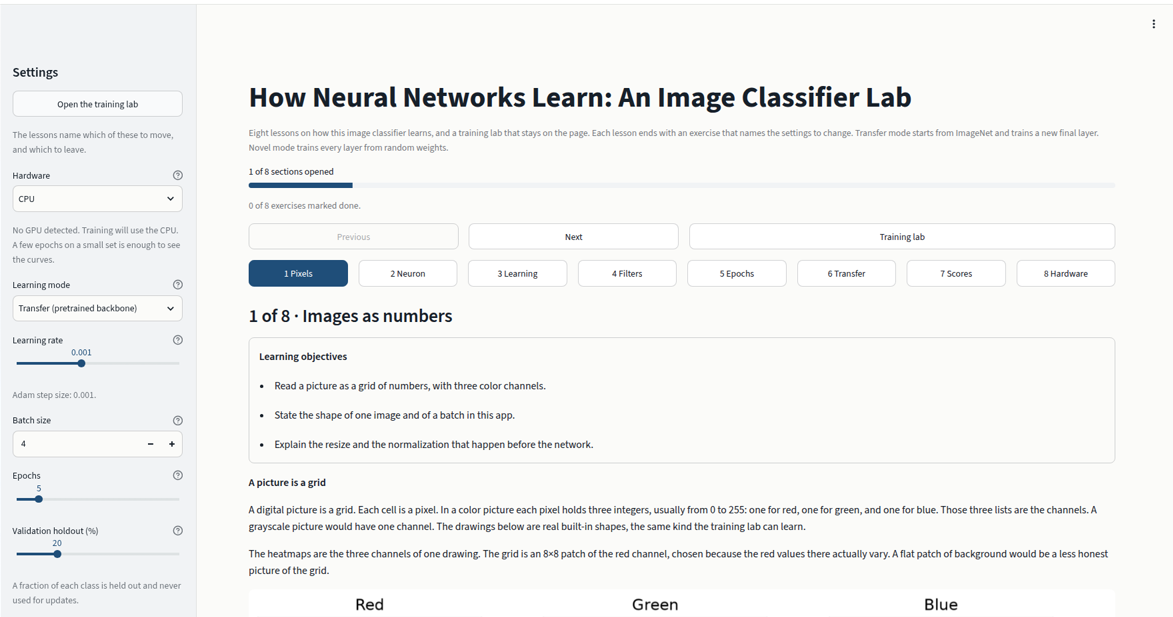
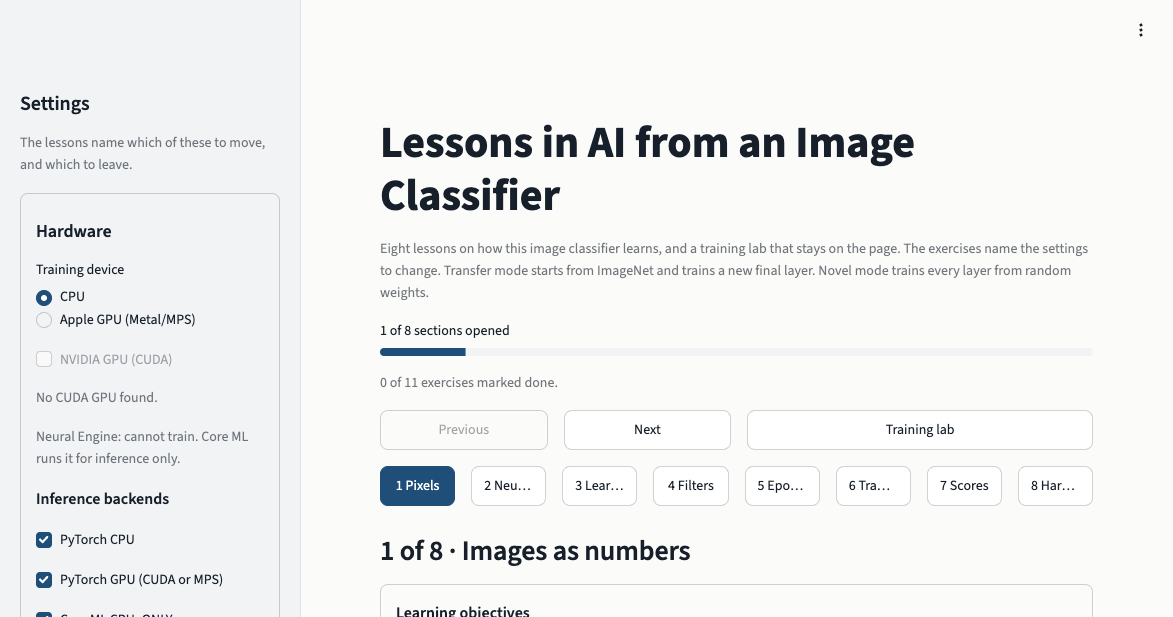
Rename the app to Lessons in AI from an Image Classifier
Use the new title for the page title and heading, the README title, and the
citation title, update the tests that assert it, and retake the home
screenshot.

diff --git a/tests/test_package.py b/tests/test_package.py
@@ -60,7 +60,7 @@ def test_concepts_cover_the_teaching_goals() -> None:
 
 def test_readme_embeds_committed_screenshots() -> None:
     readme = (ROOT / "README.md").read_text(encoding="utf-8")
-    assert readme.startswith("# How Neural Networks Learn: An Image Classifier Lab\n")
+    assert readme.startswith("# Lessons in AI from an Image Classifier\n")
     assert "actions/workflows/ci.yml/badge.svg" in readme
     images = re.findall(r"!\[[^\]]*\]\((docs/[^)]+)\)", readme)
     assert len(images) >= 5
@@ -75,7 +75,7 @@ def test_app_script_boots() -> None:
     app.run()
     assert not app.exception
     titles = [title.value for title in app.title]
-    assert "How Neural Networks Learn: An Image Classifier Lab" in titles
+    assert "Lessons in AI from an Image Classifier" in titles
     labels = [button.label for button in app.button]
     assert "Training lab" in labels
     assert any("Pixels" in label for label in labels)

diff --git a/imagepro/ui.py b/imagepro/ui.py
@@ -110,7 +110,7 @@ class Artifact:
     val_images: tuple[Image.Image, ...]
 
 
-APP_TITLE = "How Neural Networks Learn: An Image Classifier Lab"
+APP_TITLE = "Lessons in AI from an Image Classifier"
 
 
 def main() -> None:

diff --git a/README.md b/README.md
@@ -1,4 +1,4 @@
-# How Neural Networks Learn: An Image Classifier Lab
+# Lessons in AI from an Image Classifier
 
 [![CI](https://github.com/jmamodeo/classifier-teaching-tool/actions/workflows/ci.yml/badge.svg)](https://github.com/jmamodeo/classifier-teaching-tool/actions/workflows/ci.yml)
 

diff --git a/CHANGELOG.md b/CHANGELOG.md
@@ -1,5 +1,11 @@
 # Changelog
 
+## Unreleased
+
+### Changed
+
+- The page title, the README title, and the citation title are now "Lessons in AI from an Image Classifier".
+
 ## 1.1.0 - 2026-11-19
 
 ### Added
